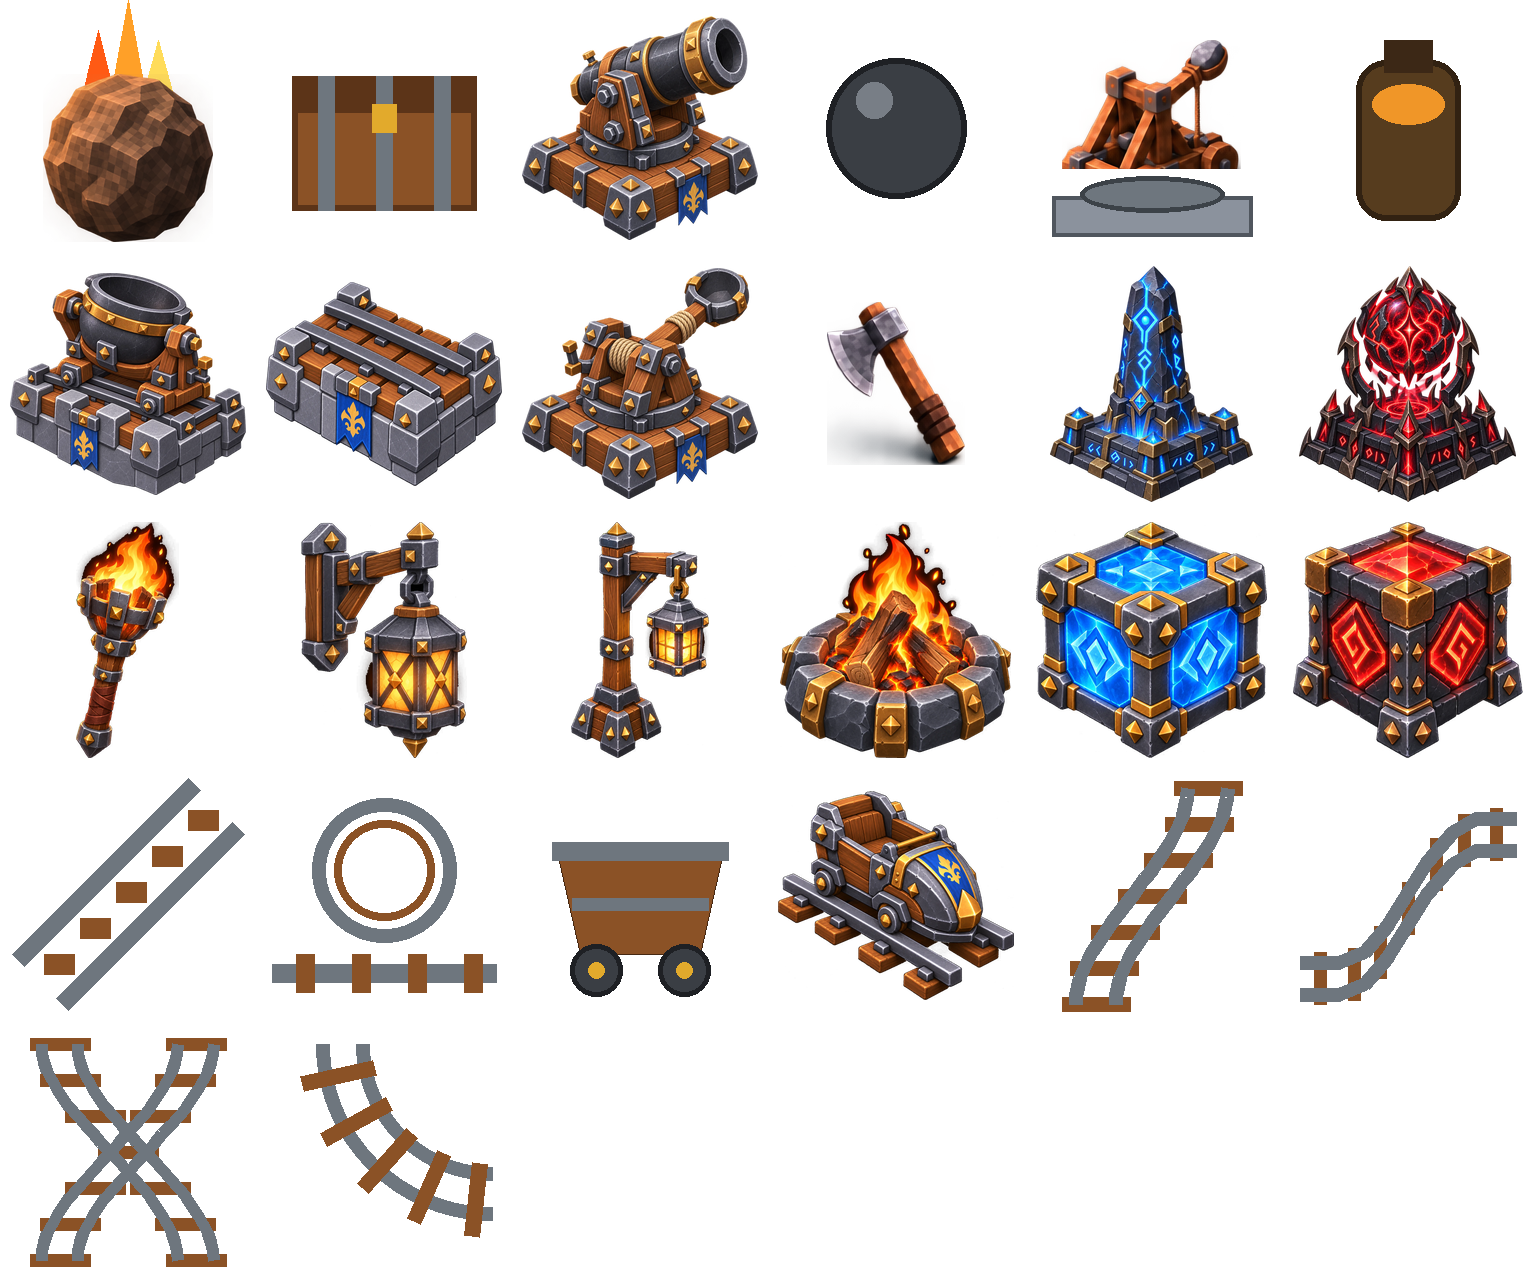
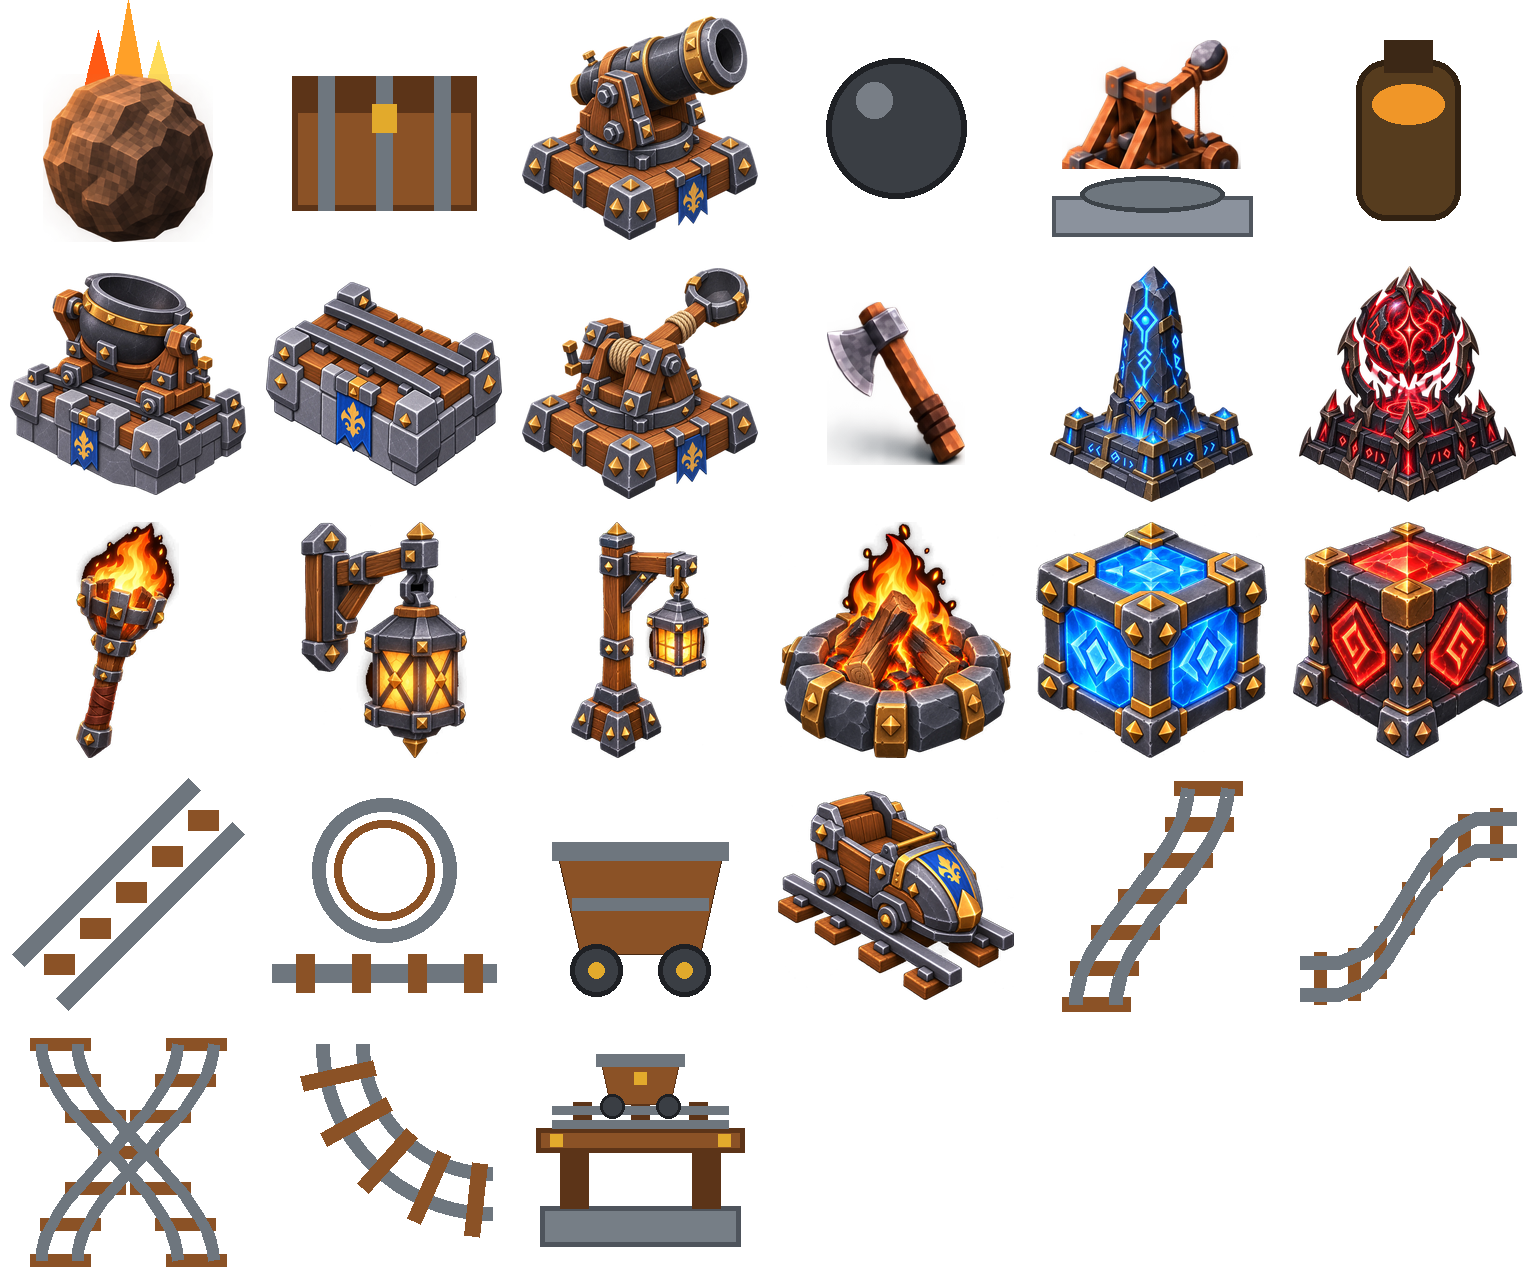
CoasterCraft Shop: the coaster parts foundry (T192)
Workstation coastercraft_shop (2 x 1, workbench recipe order 213: 4 iron
+ 3 planks + 2 sticks) with its own recipe book: rail, rail_slope,
rail_loop, mine_cart, coaster_car, rail_switch, rail_cross, rail_curve
and rail_climb move from the workbench to "station": "coastercraft_shop"
(orders kept; kettle stays at the workbench). Right-click opens the
crafting modal titled COASTERCRAFT SHOP; nothing coaster is craftable
until a shop is built. Visual (stone base, oak bench, rail + cart body,
gold studs), drawn icon appended to the derived atlas, sandbox stock.

Tests: T192_COASTERCRAFT_SHOP_BOOK (p3f gate) + _RENDERED (visual);
T160 asserts every coaster recipe's station; T160/T164 and the other
coaster suites read the shop's book; workbench page labels 4 -> 3
(T73/T78/T103). Validator: the 3x3 input cap covers the shop's recipes.
Docs: COASTER_RAILS.md "CoasterCraft Shop (2026-09-21)", INDUSTRY_PLAN
status, TEST_PLAN rows.

Changed region(s): [[0.3438, 0.8125, 0.5, 1.0]]

diff --git a/tools/generate_derived_icons.py b/tools/generate_derived_icons.py
@@ -42,6 +42,9 @@ DERIVED = [
     "rail_cross",
     # CoasterCraft tracks (docs/COASTERCRAFT_TRACKS.md): drawn placeholders.
     "rail_curve",
+    # Industry wave 1 (docs/INDUSTRY_PLAN.md): drawn placeholders, appended in
+    # the plan's fixed order: coastercraft_shop, miner, ore_bin, warehouse, foundry.
+    "coastercraft_shop",
 ]
 
 # Owner-drawn reference art (docs/reference/owner_art, transparent WebP). When
@@ -340,6 +343,38 @@ def icon_mine_cart() -> Image.Image:
     return canvas
 
 
+def icon_coastercraft_shop() -> Image.Image:
+    """The coaster parts foundry: an oak bench on a stone base with a short
+    rail and a small cart body on top, seen from the side."""
+    canvas = Image.new("RGBA", (CELL, CELL), (0, 0, 0, 0))
+    draw = ImageDraw.Draw(canvas)
+    stone = (118, 126, 134, 255)
+    stone_dark = (78, 84, 92, 255)
+    wood = (139, 82, 38, 255)
+    wood_dark = (92, 52, 24, 255)
+    iron = (110, 118, 126, 255)
+    gold = (226, 170, 44, 255)
+    # Stone base and oak bench top with two legs.
+    draw.rectangle([28, 182, 228, 222], fill=stone, outline=stone_dark, width=5)
+    draw.rectangle([48, 124, 76, 184], fill=wood_dark)
+    draw.rectangle([180, 124, 208, 184], fill=wood_dark)
+    draw.rectangle([24, 104, 232, 128], fill=wood, outline=wood_dark, width=5)
+    # A short rail on the bench: two iron rails over three oak sleepers.
+    for x in (70, 128, 186):
+        draw.rectangle([x - 9, 78, x + 9, 106], fill=wood_dark)
+    draw.rectangle([40, 82, 216, 90], fill=iron)
+    draw.rectangle([40, 96, 216, 104], fill=iron)
+    # A small cart body sitting on the rail.
+    draw.polygon([(88, 34), (168, 34), (158, 80), (98, 80)], fill=wood, outline=wood_dark)
+    draw.rectangle([84, 30, 172, 42], fill=iron)
+    for x in (100, 156):
+        draw.ellipse([x - 12, 70, x + 12, 94], fill=(58, 62, 68, 255), outline=(30, 32, 36, 255), width=3)
+    for x in (44, 212):
+        draw.rectangle([x - 6, 110, x + 6, 122], fill=gold)
+    draw.rectangle([122, 48, 134, 60], fill=gold)
+    return canvas
+
+
 BUILDERS = {
     "flame_shot": icon_flame_shot, "chest": icon_chest, "cannon": icon_cannon, "cannonball": icon_cannonball,
     "turret_catapult": icon_turret_catapult, "hot_oil": icon_hot_oil, "kettle": icon_kettle, "rail": icon_rail,
@@ -352,6 +387,7 @@ BUILDERS = {
     "coaster_car": lambda: owner_icon("coaster_car"), "rail_climb": icon_rail_climb,
     "rail_cross": icon_rail_cross,
     "rail_curve": icon_rail_curve,
+    "coastercraft_shop": icon_coastercraft_shop,
 }
 
 

diff --git a/tools/validate_foundation.py b/tools/validate_foundation.py
@@ -336,7 +336,7 @@ def validate_bundle(bundle):
         require(recipe["station"] == "hand" or recipe["station"] in entities, "unknown recipe station")
         require(type(recipe["duration_seconds"]) in (int, float) and recipe["duration_seconds"] >= 0, "invalid recipe time")
         require("recipe_book_order" not in recipe or integer(recipe["recipe_book_order"]), "invalid recipe book order")
-        require(recipe["station"] != "workbench" or sum(recipe["inputs"].values()) <= 9, "workbench recipe must fit the 3x3 grid: " + recipe["id"])
+        require(recipe["station"] not in ("workbench", "coastercraft_shop") or sum(recipe["inputs"].values()) <= 9, "3x3 station recipe must fit the grid: " + recipe["id"])
         for field in ("inputs", "outputs"):
             require(recipe[field], "recipe cannot have empty inputs or outputs")
             require(all(i in items and integer(n, 1) for i, n in recipe[field].items()), "invalid recipe item/count")

diff --git a/tools/measure_item_atlas.py b/tools/measure_item_atlas.py
@@ -41,6 +41,7 @@ DERIVED_ORDER = [
     "rail_climb",
     "rail_cross",
     "rail_curve",
+    "coastercraft_shop",
 ]
 # Nominal search cells. Row heights for the item atlas follow the shipped
 # ItemIconCatalog grid; the ammunition atlas is two square halves.

diff --git a/docs/TEST_PLAN.md b/docs/TEST_PLAN.md
@@ -82,7 +82,7 @@ Runtime rows begin **NOT RUN** and change only through recorded runtime evidence
 | T70 | P3B | Save during an active core attack and fully restart; Continue restores exact core health, raider health/position, active target and every surviving player-built defense integrity once |
 | T71 | P3B | Rendered 1280×720 evidence clearly shows the strategic core, field-side raider, an open entrance and player-built barricade health/target feedback; owner ultrawide playtest decides readability |
 | T72 | P3C | Every registered item resolves a stable icon; inventory, hotbar and crafting expose graphical identity and counts |
-| T73 | P3C/P3H.3 | Workbench recipe book shows at most 12 fixed cards per page with bounded buttons, wheel page-turning and deterministic search; insufficient-resource cards are red |
+| T73 | P3C/P3H.3 | Workbench recipe book (35 recipes, three pages since the CoasterCraft Shop) shows at most 12 fixed cards per page with bounded buttons, wheel page-turning and deterministic search; insufficient-resource cards are red |
 | T74 | P3C | Equipped sword performs one clear bounded raider hit; miss/cooldown do not mutate terrain or enemy state; lethal strike wins |
 | T75 | P3C | Ballista accepts supported ground/typed tower socket, holds fire through obstruction and consumes one bolt only on a clear shot |
 | T76 | P3C | Catapult rejects below-minimum/beyond-maximum/blocked arcs and consumes one shot only for a valid clear ballistic arc |
@@ -150,11 +150,11 @@ Runtime rows begin **NOT RUN** and change only through recorded runtime evidence
 | T153 | P4H | A sword swing lands on the raider in front of the player (swing ray on layer 1\|4, then the reach cone), provoking it: it chases and hits the player (health drops, HUD shows HP); attention lapses back to the core; a machine that hurt it is chased and hit; the player respawns at full health beside the core |
 | T154 | P4C | Aiming down at a rail places the kettle on the cell above it (the placement aim stops at entity-owned cells, not only solid voxels); Patrol is a rail-weapon-only stance that rides the connected chain end to end while idle |
 | T155 | P4G/P4C | A wall lantern hangs on a wall face (mount `wall`, bracket toward the wall) and refuses bare ground while a torch stands or hangs; a kettle rides through a rail corner as one track but never turns onto a T branch; a stuck raider backs up and steps sideways before re-planning |
-| T160 | Coaster | `rail_slope` (slope 1, not linear), `rail_loop` (loop tool, no support) and `mine_cart` (rail speed 3, `rail_mount`) are registered with icons and Workbench recipes at orders 204–206 (4 slopes, 2 loops, 1 cart) |
+| T160 | Coaster | `rail_slope` (slope 1, not linear), `rail_loop` (loop tool, no support) and `mine_cart` (rail speed 3, `rail_mount`) are registered with icons and CoasterCraft Shop recipes at orders 204–206 (4 slopes, 2 loops, 1 cart) |
 | T161 | Coaster | Two flat rails, a slope rising +x and three rails one level up chain as six cells (the slope joins both ends); an upper rail beside a lower one without a slope stays alone; the kettle router steps up through the slope; the slope model has posts, deck, rails and ties; a mine cart mounts on the first rail, rides to the top rail and comes back down |
 | T162 | Coaster | With Rail Loop held a press ghosts a complete size-4 loop element (six switcher pieces, two slopes, the circle pieces); 6 by key adds pieces, C makes 7, X makes 6, 12 clamps to 9, every ring piece rides the true circle; release lays every piece for one item as one chain from the entry through both slopes and the circle's top to the exit two lanes over; every ring piece draws the loop track and leans toward the loop's centre; a cart from the approach reaches the top and then the exit; a ghost over a stone column shows red and lays nothing; the laid track survives a save round-trip; L switches to the TRUE loop: a diameter-8 helix touching the ground only at its entry and exit one lane right, Shift-drag to 14 grows it, a cart rides the approach over the top and out on the exit lane |
 | T163 | Coaster | Visual: a size-6 loop element renders as a diameter-6 true loop with a mine cart on it, beside a slope run climbing a step with its own cart and a plain-rail corner, in one 1280×720 view (`coaster-rails.png`) |
-| T164 | Coaster car | `coaster_car` is a stackable (2) building item placing a rail-mounted cart entity (rail speed 3, role `rail`) with an owner-art icon and a Workbench recipe at order 207 (4 planks + 2 iron ingot + 1 castle stone → 1) |
+| T164 | Coaster car | `coaster_car` is a stackable (2) building item placing a rail-mounted cart entity (rail speed 3, role `rail`) with an owner-art icon and a CoasterCraft Shop recipe at order 207 (4 planks + 2 iron ingot + 1 castle stone → 1) |
 | T165 | Coaster car | A coaster car placed on a loop's lead-in stays parked; Shift aimed at it (interaction raycast) boards: player parked, ride camera current, seated hero on the `Seat` node, HUD `RIDING · speed 3/9 · 1-9 speed · Shift leave`; speed 2 then 6 move the car 2.0 / 6.0 cells per second; the `hotbar_5` action sets speed 5 without changing the hotbar slot; `interact` leaves the player 1 m beside the parked car on the rail cell's floor; a mid-ride snapshot saves the player beside the car |
 | T166 | Coaster car | The hero model has hair, face, tunic, lion crest, scarf, belt, bracers, boots and a sword; armoured it swaps to breastplate, pauldrons with shoulder diamonds, tabard, greaves and vambraces; walking swings legs and arms; seated hides the legs and puts the arms on the bar; V moves the camera 3.5 m behind and above with the hero visible and the aim ray still from the eye; the pause-menu Hero: Armour toggle persists in `settings.cfg` and re-dresses the hero |
 | T167 | Coaster car | Visual: the hero sits in the coaster car climbing into a loop, seen from the three-quarter chase camera, in one 1280×720 view (`coaster-car.png`) |
@@ -180,6 +180,7 @@ Runtime rows begin **NOT RUN** and change only through recorded runtime evidence
 | T188 | Coaster | Auto-shape (owner playtest 2026-09-21): plain rails laid through the interaction service shape themselves. (a) A rail line (−60..−57, 40) and single rails (−57, 36..39): the corner stays plain until the straight beyond it exists; that rail turns the three corner cells (A, C, B) into `rail_loop` pieces of one radius-1.5 arc (`auto_shaped` = elbow) starting on A's far face and ending on B's far face at height 0.55, the straights beyond stay plain, the chain runs (−60,40)..(−57,36) as 8 cells, the pack's rails drop by the one laid, every joint's rail ends meet within 0.02, a mine cart rides round the corner and home, the kettle router (`_rail_step`) steps A2 → A → C → B with its rail point on the corner's arc; `undo_last` restores the three plain rails (`replaced` 3), removes the triggering rail and refunds it. (b) Three rails in lane 44 then three in lane 45 one cell on become one six-piece `s_bend` (`auto_shaped` = lane_shift) from (−60,44)'s west face to (−55,45)'s east face that a cart crosses and returns. (c) A "+" of two rail lines stays nine plain rails. Visual: `T188_AUTO_SHAPE_RENDERED` renders an elbow and a lane shift with a cart on each in `coaster-auto-shape.png` |
 | T189 | Coaster | A climb (12 / 6) crossing a plain-rail line under its middle: the three pieces over the line and beside it carry no Support (a hole in the truss); the pieces either side of the hole keep their bents |
 | T190 | Coaster | Deselecting the held slot leaves no active item (slot −1); Y drops one rail ahead of the player (the pack loses one, one drop exists, the session snapshot lists it); standing on the drop picks it up; Shift+Y drops the whole stack and standing on it takes it all back |
+| T192 | Industry | CoasterCraft Shop (gate): the shop's book lists exactly `rail`, `rail_slope`, `rail_loop`, `mine_cart`, `coaster_car`, `rail_switch`, `rail_cross`, `rail_curve`, `rail_climb` in that order; the Workbench book lists none of them, still lists the kettle and ends with `coastercraft_shop` (order 213, 4 iron + 3 planks + 2 sticks → 1); the entity is a 2 × 1 `coastercraft_shop` station with an icon; a placed shop (`ShopCart` visual) opens the crafting modal titled COASTERCRAFT SHOP on one page, crafts 4 rails and the Workbench refuses the rail recipe (`WRONG_WORKSTATION`). Visual (`T192_COASTERCRAFT_SHOP_RENDERED`): `p3f-coastercraft-shop-book.png` and `p3f-coastercraft-shop.png` |
 | T136 | P4C | Visual: the ballista, catapult, turret catapult on its tower, cannon and kettle on a rail-topped wall render as distinct multi-part machines in one 1280×720 view (`p4-siege-units.png`) |
 | T123 | P4a-2 | Visual: rendered 1280×720 evidence of the weapon panel (loaded Flame Shot, stance, filter, supply, legend) and the Chest panel; real viewport clicks on a munition tile then the Ammunition slot (and on the chest grid) route through `CraftingItemSlot`; message, supply, legend and chest-grid bottoms are ≤ 720 |
 | T137 | P4b-1 | Sampled columns of the seeded generator show coal from depth 3 (above 6), iron only from depth 6, gold only from depth 12, gold rarer than iron rarer than coal, identical for the same seed and different for another |

diff --git a/docs/COASTER_RAILS.md b/docs/COASTER_RAILS.md
@@ -6,7 +6,7 @@ This is a **modular side feature**: every new file carries a `coaster` name (`ga
 
 ## Pieces (content)
 
-| Entity | Item stack | Footprint | Support | Mount socket | Recipe (Workbench) | Attributes |
+| Entity | Item stack | Footprint | Support | Mount socket | Recipe (Workbench until 2026-09-21, now the CoasterCraft Shop, see below) | Attributes |
 |---|---|---|---|---|---|---|
 | `rail_slope` | 32 | 1×1, `"slope": 1` | the cell below | `rail_mount` | 1 iron ingot + 2 planks → 4 (order 204) | value 4, role `rail`, mount `any_solid_top`, space 1×1×1 |
 | `rail_loop` | 64 | 1×1, `"coaster_tool": "loop"` | **none** (`support_offsets: []`, pieces float) | `rail_mount` | 3 iron ingot + 4 planks → 2 (order 205) | value 6, role `rail`, mount `any_solid_top` |
@@ -216,3 +216,14 @@ Owner: "the 90 curve or u-turn curve can place at angles other than 90 and 180, 
 ## Empty hands and drops (owner playtest 2026-09-21)
 
 The held slot's key again empties the hands (`F0Inventory.deselect_hotbar`, `selected_hotbar` −1, no active item, HUD "Hands empty"). **Y** drops one of the held item (Shift+Y the stack) a step ahead of the player (`GameSession.drop_held_item`): a bobbing icon (`Sprite3D` of the item's atlas icon) on the ground; walking within 1.3 m picks up what fits in the pack. Drops are saved in the session snapshot (`drops`) and restored on load. T190 (gate). The gate walks the player home and settles 90 frames before quitting: quitting while the terrain streamed around a far-teleported player crashed the engine on exit.
+
+## CoasterCraft Shop (2026-09-21)
+
+Owner: "Rails and carts available in game, but it needs its own special foundry to create its parts. They are not part of normal by default, but can be used in the world if you can build them. Add its recipe as 'CoasterCraft Shop'. You unlock it and build it, and you can create rails and carts." (docs/INDUSTRY_PLAN.md, wave 1 card 2.)
+
+- **Item / entity `coastercraft_shop`** (category building, stack 4): a 2 × 1 machine (`occupied_offsets [[0,0,0],[1,0,0]]`, support under both cells, `station_type: "coastercraft_shop"`, integrity 40 like the chest family, `idle_only_inventory_capacity_required` dismantle like the workbench). **Workbench recipe, order 213**: 4 iron ingot + 3 planks + 2 sticks → 1. (The card asked for 6 iron + 8 planks + 4 sticks; the workbench grid holds one item per cell and `validate_foundation.py` caps a 3 × 3 recipe at 9 inputs, so the recipe is the most expensive 9-cell one instead - call made by the implementing agent.) The validator's 3 × 3 rule now also covers the shop's own recipes.
+- **The coaster recipes moved**: `rail` (194), `rail_slope` (204), `rail_loop` (205), `mine_cart` (206), `coaster_car` (207), `rail_switch` (208), `rail_cross` (210), `rail_curve` (211), `rail_climb` (212) are `"station": "coastercraft_shop"` and keep their orders; the shop's book lists exactly those nine on one page. The **kettle stays at the workbench** (it is a weapon). The workbench book is 35 recipes = three pages (T73 / T78 / T103 page labels updated) and ends with the shop. Nothing coaster is craftable until a shop is built; items already in a pack or an old save stay usable (items are items, only the recipes moved).
+- **Modal**: `CraftAndDefendApp.CRAFTING_STATION_TYPES` includes `coastercraft_shop`; right-click on the placed shop opens the crafting modal titled **COASTERCRAFT SHOP** (3 × 3 grid, its own recipe book; `GameSession.recipe_status` already binds a recipe's station to the placed station's entity id, so `try_craft("rail", "workbench", …)` answers `WRONG_WORKSTATION`). Shift on it explains right-click like every station.
+- **Visual** (`GameSession._build_coastercraft_shop_visual`): castle-stone base slab, oak bench on dark-oak legs with gold studs at the corners, a short iron rail on oak sleepers along the bench with a small oak cart body (`ShopCart`) parked on it, a hammer on the near end; collision 1.9 × 0.9 × 0.9 like the workbench. Icon `icon_coastercraft_shop` (bench with rail and cart silhouette) appended to the derived atlas after `rail_curve` (wave-1 order: `coastercraft_shop`, `miner`, `ore_bin`, `warehouse`, `foundry`).
+- **Sandbox**: the coaster sandbox / CoasterCraft mode stays creative and keeps handing out coaster items directly; `coaster_sandbox.gd` `STOCK` also carries the shop so it can be placed there. The real game's starting pack is unchanged.
+- **Tests**: **T192_COASTERCRAFT_SHOP_BOOK** (p3f gate): the shop's book order, the workbench book without the coaster ids and ending with the shop, item / entity / recipe contract, placing a shop (`workstations.try_place("coastercraft_shop", …)`, `ShopCart` visual), opening the modal under its title on one page, crafting 4 rails there and the workbench refusing the same recipe. **T192_COASTERCRAFT_SHOP_RENDERED** (p3f visual): `p3f-coastercraft-shop-book.png` and `p3f-coastercraft-shop.png`. **T160** (rails gate) and **T164** (car gate) now read the shop's book and T160 asserts every coaster recipe's station is `coastercraft_shop` with the kettle at the workbench.

diff --git a/docs/INDUSTRY_PLAN.md b/docs/INDUSTRY_PLAN.md
@@ -8,6 +8,7 @@ Owner: "add CoasterCraft as a game mode … clear the foundation, double its siz
 |---|---|---|
 | CoasterCraft mode | `feature/coastercraft-mode` | Main-menu **CoasterCraft**: its own saves (`<data root>/coastercraft/`), **Continue / New**, a bare 60 × 100 stone plate (nothing on it), infinite stock, no waves / drills, its own pause menu (Resume, Save, Restart, Exit to menu, Quit). The test sandbox (`--coaster-sandbox`) keeps its demos for the gates. |
 | CoasterCraft Shop | `feature/coastercraft-shop` | Workstation `coastercraft_shop` (workbench recipe; a 2 × 1 machine with the coaster look). Rails, slopes, loops, switches, crossings, curves, climbs, mine carts and coaster cars move from the workbench book to the shop's book. Nothing coaster is craftable until the shop is built. |
+| | | **Status 2026-09-21: built** on `feature/coastercraft-shop` - see docs/COASTER_RAILS.md "CoasterCraft Shop (2026-09-21)"; T192 (p3f), T160 / T164 updated; recipe 4 iron + 3 planks + 2 sticks (the 3 × 3 grid caps a recipe at 9 inputs). |
 | Mining machines | `feature/mining-machines` | `miner` (a digger: 1 × 1 machine with a drill head) placed within 2 cells of ore: every `MINER_SECONDS` it mines the nearest ore voxel in radius 3 (the voxel becomes stone) into an adjacent **`ore_bin`** (1 × 1 container, 9 slots, chest UI). Full bin = idle. Needs no fuel (wave 2: power). |
 | Storage + foundry | `feature/storage-foundry` | **`warehouse`** (2 × 2 container, 27 slots, chest UI). **`foundry`** (2 × 1): adjacent to a warehouse, pulls ore + coal from it and smelts the chosen ingot (pick the recipe in its modal; "any" = whatever ore is there) every `FOUNDRY_SECONDS`, output back into the warehouse. |
 | Hauling carts | `feature/hauling` | A mine cart passing a cell adjacent to an `ore_bin` **loads** up to `CART_CARGO` (16) items; passing a `warehouse` **unloads**. Cargo drawn in the cart. Kettles unchanged. Circuits: bin ↔ warehouse on a loop with a lane switch. |
